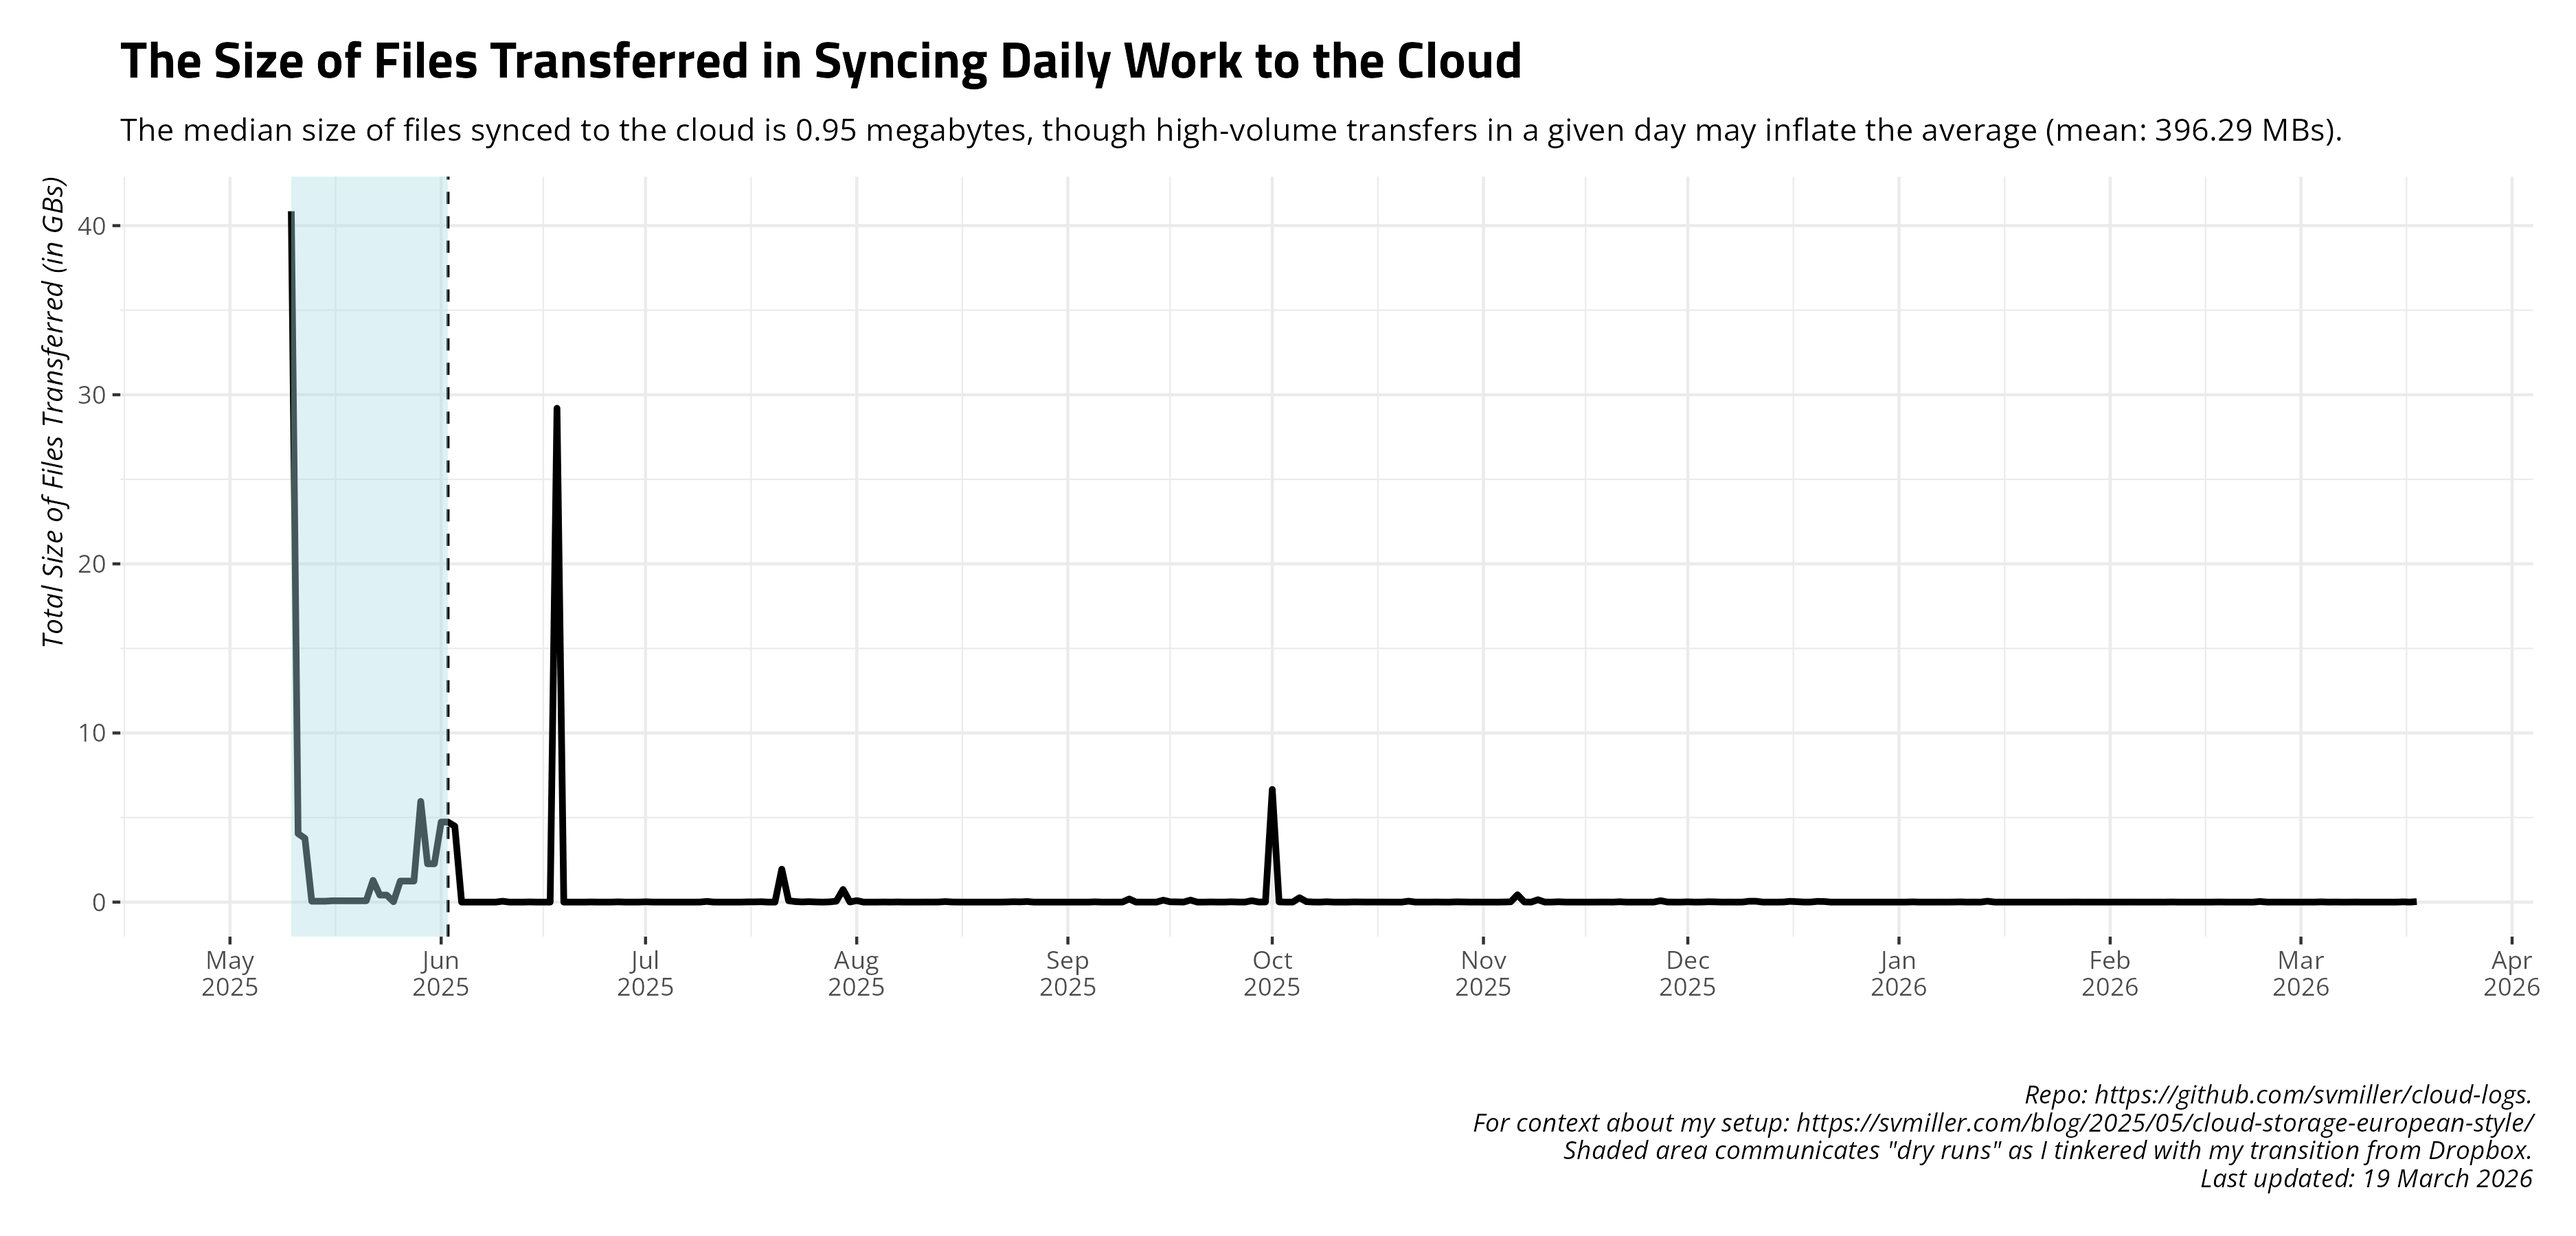
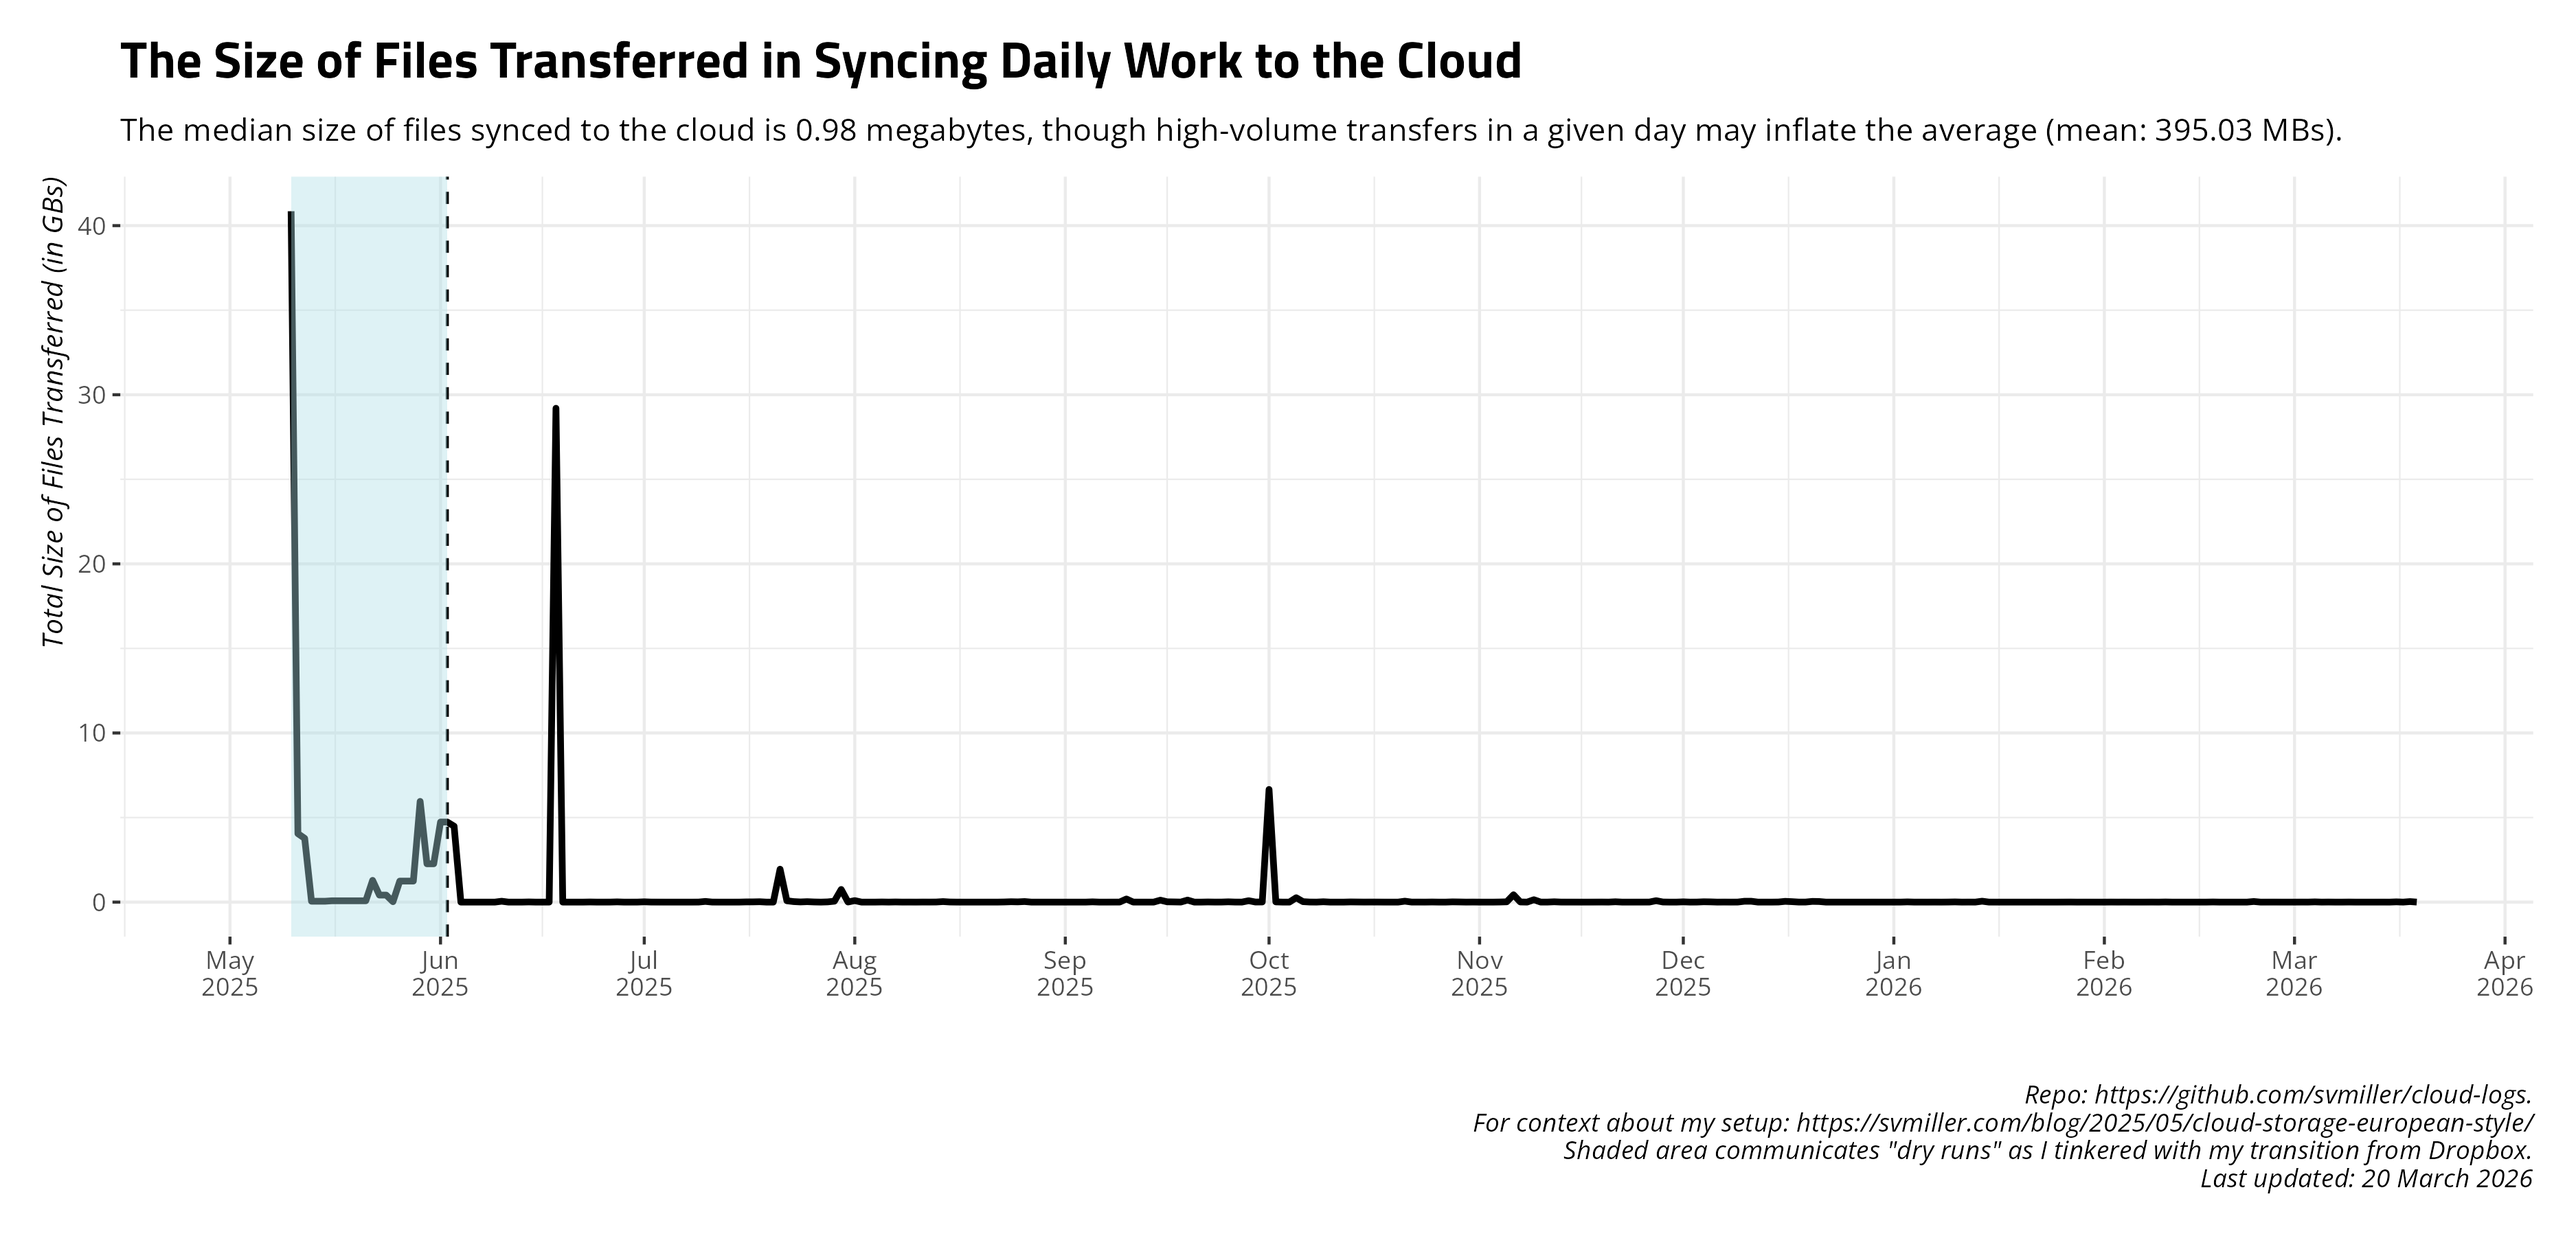
Date: 2026-03-20 09:00:25. Hi mom!

diff --git a/README.md b/README.md
@@ -27,17 +27,17 @@ and uploads to Github.
     #> # A tibble: 14 × 4
     #>    date       ftransfer stransfer   elapsed 
     #>    <date>         <dbl> <chr>       <chr>   
-    #>  1 2026-03-05        34 104.038 KiB 5m33.8s 
-    #>  2 2026-03-06        71 3.873 MiB   5m24.4s 
-    #>  3 2026-03-07         0 <NA>        5m14.2s 
-    #>  4 2026-03-08        18 146.060 KiB 4m54.1s 
-    #>  5 2026-03-09       341 3.990 MiB   8m23.0s 
-    #>  6 2026-03-10         0 <NA>        5m20.3s 
-    #>  7 2026-03-11        39 64.329 KiB  4m56.5s 
-    #>  8 2026-03-12        65 39.725 KiB  5m20.7s 
-    #>  9 2026-03-13        12 68.007 KiB  5m9.9s  
-    #> 10 2026-03-14       104 683.430 KiB 19m7.9s 
-    #> 11 2026-03-15         0 <NA>        5m19.2s 
-    #> 12 2026-03-16       106 15.047 MiB  14m17.7s
-    #> 13 2026-03-17         7 145.749 KiB 5m26.0s 
-    #> 14 2026-03-18         3 30.764 MiB  5m16.3s
+    #>  1 2026-03-06        71 3.873 MiB   5m24.4s 
+    #>  2 2026-03-07         0 <NA>        5m14.2s 
+    #>  3 2026-03-08        18 146.060 KiB 4m54.1s 
+    #>  4 2026-03-09       341 3.990 MiB   8m23.0s 
+    #>  5 2026-03-10         0 <NA>        5m20.3s 
+    #>  6 2026-03-11        39 64.329 KiB  4m56.5s 
+    #>  7 2026-03-12        65 39.725 KiB  5m20.7s 
+    #>  8 2026-03-13        12 68.007 KiB  5m9.9s  
+    #>  9 2026-03-14       104 683.430 KiB 19m7.9s 
+    #> 10 2026-03-15         0 <NA>        5m19.2s 
+    #> 11 2026-03-16       106 15.047 MiB  14m17.7s
+    #> 12 2026-03-17         7 145.749 KiB 5m26.0s 
+    #> 13 2026-03-18         3 30.764 MiB  5m16.3s 
+    #> 14 2026-03-19        70 1.489 MiB   5m3.4s
